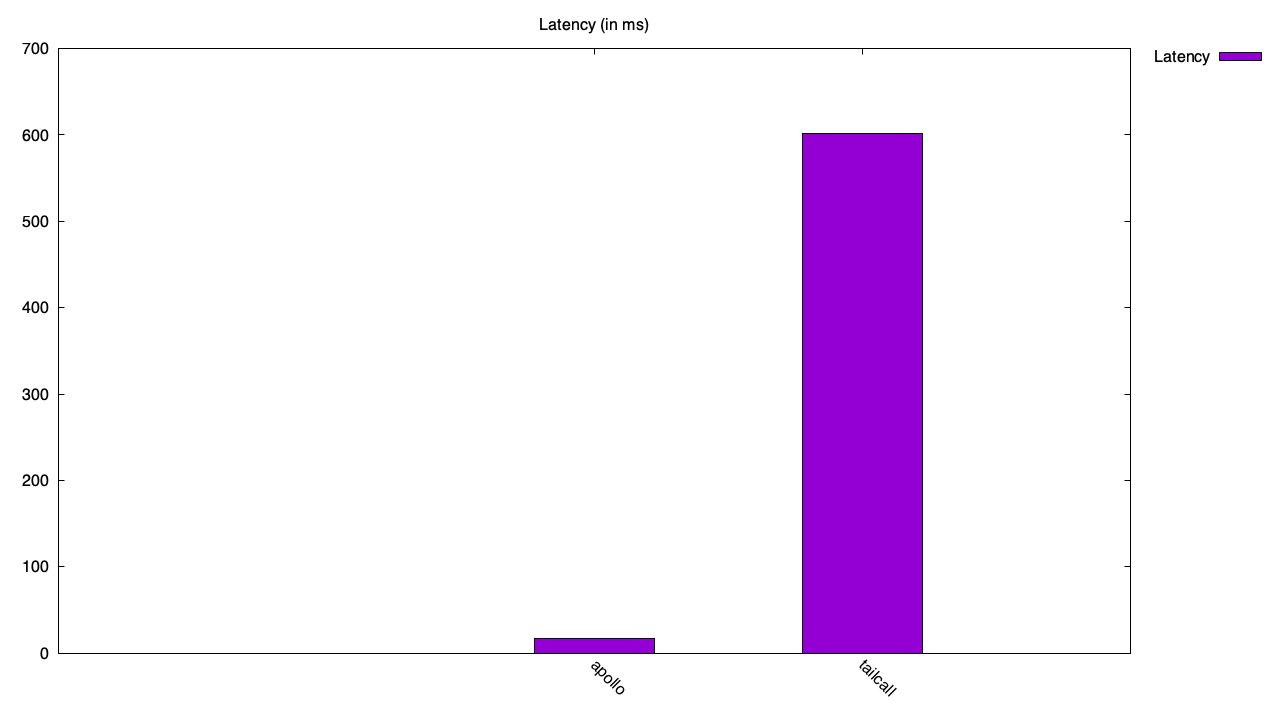
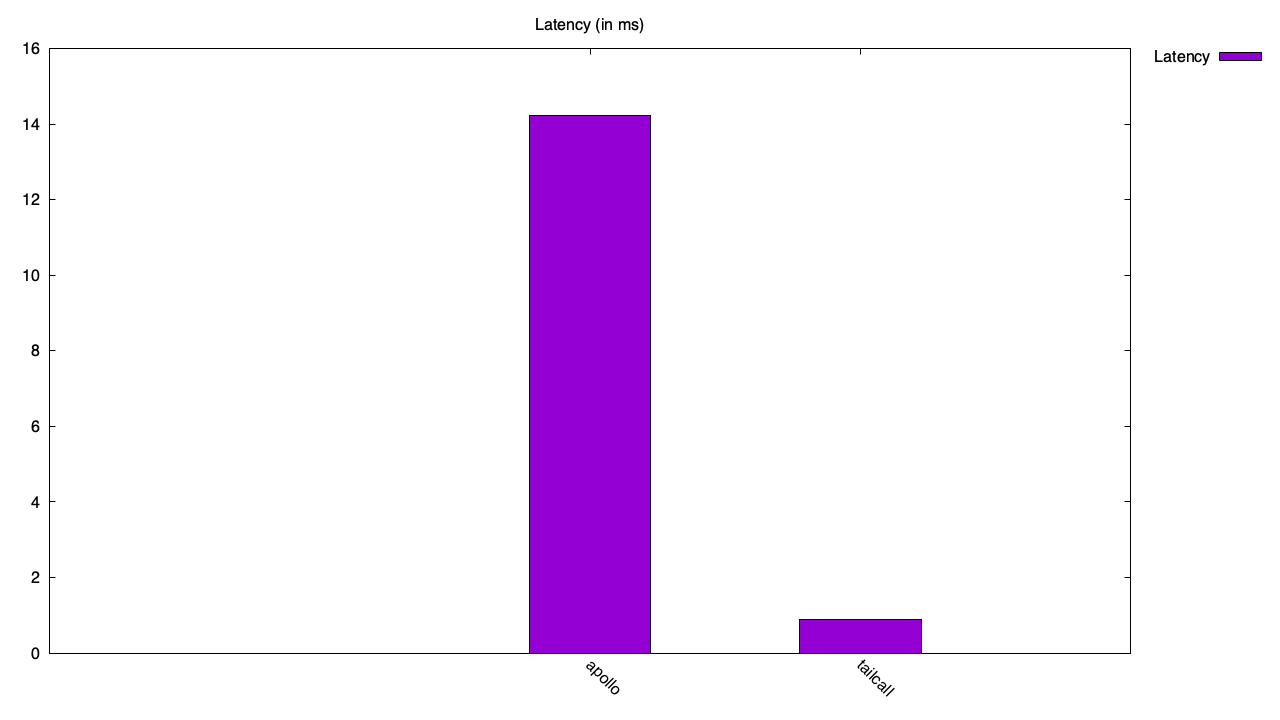
Updated performance results in README.md

diff --git a/README.md b/README.md
@@ -44,8 +44,8 @@ Get started with the benchmarks:
 <!-- PERFORMANCE_RESULTS_START -->
 | Server | Requests/sec | Latency (ms) |
 |--------|--------------|--------------|
-| apollo | 6539.554307143364 | 15.292914015494107 |
-| tailcall | 115357.753852638 | 0.8600929656600531 |
+| apollo | 7035.942102917875 | 14.21787901160235 |
+| tailcall | 112556.64979546318 | 0.8808227626467039 |
 <!-- PERFORMANCE_RESULTS_END -->
 
 ### Throughput (Higher is better)
